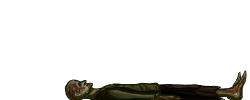
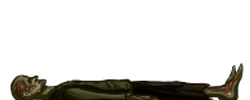
Fixed zombie image size, added the ability to choose between difficulties when first launched, added indication of taking damage to enemies, added additional key to go through scripts (rmb)

Changed region(s): [[0.028, 0.63, 1.0, 1.0]]

diff --git a/scripts.py b/scripts.py
@@ -52,10 +52,10 @@ def script_main_hall(scene: Scene, wesker: Wesker, screen: pygame.Surface,
     floor_rect = pygame.Rect(0, ACTUAL_HEIGHT, WIDTH, FLOOR_HEIGHT)
 
     enter_img = pygame.transform.scale(
-            pygame.image.load(f'images/hud_img/other/enter.png').convert_alpha(),
-            (50, 40),
+            pygame.image.load(f'images/hud_img/other/rmb_or_enter.png').convert_alpha(),
+            (104, 40),
         )
-    enter_rect = pygame.Rect(WIDTH - 60, ACTUAL_HEIGHT + 15, 50, 40)
+    enter_rect = pygame.Rect(WIDTH - 114, ACTUAL_HEIGHT + 15, 104, 40)
 
     wesker.change_x_velocity(0)
     wesker.change_y_velocity(0)
@@ -83,7 +83,8 @@ def script_main_hall(scene: Scene, wesker: Wesker, screen: pygame.Surface,
         for event in pygame.event.get():
             if event.type == pygame.QUIT:
                 return 0
-            elif (event.type == pygame.KEYDOWN) and (event.key == pygame.K_RETURN):
+            elif ((event.type == pygame.KEYDOWN) and (event.key == pygame.K_RETURN)) or \
+                    ((event.type == pygame.MOUSEBUTTONDOWN) and (event.button == 3)):
                 if next_line < len(lines) - 1:
                     next_line += 1
                     line_surface = font.render(lines[next_line], 1, line_color)
@@ -177,10 +178,10 @@ def script_east_wing_stairway(scene: Scene, wesker: Wesker, screen: pygame.Surfa
     floor_rect = pygame.Rect(0, ACTUAL_HEIGHT, WIDTH, FLOOR_HEIGHT)
 
     enter_img = pygame.transform.scale(
-        pygame.image.load(f'images/hud_img/other/enter.png').convert_alpha(),
-        (50, 40),
+        pygame.image.load(f'images/hud_img/other/rmb_or_enter.png').convert_alpha(),
+        (104, 40),
     )
-    enter_rect = pygame.Rect(WIDTH - 60, ACTUAL_HEIGHT + 15, 50, 40)
+    enter_rect = pygame.Rect(WIDTH - 114, ACTUAL_HEIGHT + 15, 104, 40)
 
     wesker.change_x_velocity(0)
     wesker.change_y_velocity(0)
@@ -193,7 +194,8 @@ def script_east_wing_stairway(scene: Scene, wesker: Wesker, screen: pygame.Surfa
         for event in pygame.event.get():
             if event.type == pygame.QUIT:
                 return 0
-            elif (event.type == pygame.KEYDOWN) and (event.key == pygame.K_RETURN):
+            elif ((event.type == pygame.KEYDOWN) and (event.key == pygame.K_RETURN)) or \
+                    ((event.type == pygame.MOUSEBUTTONDOWN) and (event.button == 3)):
                 if next_line < len(lines) - 1:
                     next_line += 1
                     line_surface = font.render(lines[next_line], 1, line_color)
@@ -242,10 +244,10 @@ def script_dark_corridor(scene: Scene, wesker: Wesker, screen: pygame.Surface, c
     floor_rect = pygame.Rect(0, ACTUAL_HEIGHT, WIDTH, FLOOR_HEIGHT)
 
     enter_img = pygame.transform.scale(
-        pygame.image.load(f'images/hud_img/other/enter.png').convert_alpha(),
-        (50, 40),
+        pygame.image.load(f'images/hud_img/other/rmb_or_enter.png').convert_alpha(),
+        (104, 40),
     )
-    enter_rect = pygame.Rect(WIDTH - 60, ACTUAL_HEIGHT + 15, 50, 40)
+    enter_rect = pygame.Rect(WIDTH - 114, ACTUAL_HEIGHT + 15, 104, 40)
 
     wesker.change_x_velocity(0)
     wesker.change_y_velocity(0)
@@ -257,7 +259,8 @@ def script_dark_corridor(scene: Scene, wesker: Wesker, screen: pygame.Surface, c
         for event in pygame.event.get():
             if event.type == pygame.QUIT:
                 return 0
-            elif (event.type == pygame.KEYDOWN) and (event.key == pygame.K_RETURN):
+            elif ((event.type == pygame.KEYDOWN) and (event.key == pygame.K_RETURN)) or \
+                    ((event.type == pygame.MOUSEBUTTONDOWN) and (event.button == 3)):
                 if next_line < len(lines) - 1:
                     next_line += 1
                     line_surface = font.render(lines[next_line], 1, line_color)
@@ -304,10 +307,10 @@ def script_garden_shed(scene: Scene, wesker: Wesker, screen: pygame.Surface, clo
     floor_rect = pygame.Rect(0, ACTUAL_HEIGHT, WIDTH, FLOOR_HEIGHT)
 
     enter_img = pygame.transform.scale(
-        pygame.image.load(f'images/hud_img/other/enter.png').convert_alpha(),
-        (50, 40),
+        pygame.image.load(f'images/hud_img/other/rmb_or_enter.png').convert_alpha(),
+        (104, 40),
     )
-    enter_rect = pygame.Rect(WIDTH - 60, ACTUAL_HEIGHT + 15, 50, 40)
+    enter_rect = pygame.Rect(WIDTH - 114, ACTUAL_HEIGHT + 15, 104, 40)
 
     wesker.change_x_velocity(0)
     wesker.change_y_velocity(0)
@@ -319,7 +322,8 @@ def script_garden_shed(scene: Scene, wesker: Wesker, screen: pygame.Surface, clo
         for event in pygame.event.get():
             if event.type == pygame.QUIT:
                 return 0
-            elif (event.type == pygame.KEYDOWN) and (event.key == pygame.K_RETURN):
+            elif ((event.type == pygame.KEYDOWN) and (event.key == pygame.K_RETURN)) or \
+                    ((event.type == pygame.MOUSEBUTTONDOWN) and (event.button == 3)):
                 if next_line < len(lines) - 1:
                     next_line += 1
                     line_surface = font.render(lines[next_line], 1, line_color)
@@ -378,10 +382,10 @@ def script_gh_corr(scene: Scene, wesker: Wesker, screen: pygame.Surface, clock: 
     floor_rect = pygame.Rect(0, ACTUAL_HEIGHT, WIDTH, FLOOR_HEIGHT)
 
     enter_img = pygame.transform.scale(
-        pygame.image.load(f'images/hud_img/other/enter.png').convert_alpha(),
-        (50, 40),
+        pygame.image.load(f'images/hud_img/other/rmb_or_enter.png').convert_alpha(),
+        (104, 40),
     )
-    enter_rect = pygame.Rect(WIDTH - 60, ACTUAL_HEIGHT + 15, 50, 40)
+    enter_rect = pygame.Rect(WIDTH - 114, ACTUAL_HEIGHT + 15, 104, 40)
 
     wesker.change_x_velocity(0)
     wesker.change_y_velocity(0)
@@ -400,7 +404,8 @@ def script_gh_corr(scene: Scene, wesker: Wesker, screen: pygame.Surface, clock: 
         for event in pygame.event.get():
             if event.type == pygame.QUIT:
                 return 0
-            elif (event.type == pygame.KEYDOWN) and (event.key == pygame.K_RETURN):
+            elif ((event.type == pygame.KEYDOWN) and (event.key == pygame.K_RETURN)) or \
+                    ((event.type == pygame.MOUSEBUTTONDOWN) and (event.button == 3)):
                 if next_line < len(lines) - 1:
                     next_line += 1
                     line_surface = font.render(lines[next_line], 1, line_color)
@@ -464,10 +469,10 @@ def script_gh_gallery(scene: Scene, wesker: Wesker, screen: pygame.Surface, cloc
     floor_rect = pygame.Rect(0, ACTUAL_HEIGHT, WIDTH, FLOOR_HEIGHT)
 
     enter_img = pygame.transform.scale(
-        pygame.image.load(f'images/hud_img/other/enter.png').convert_alpha(),
-        (50, 40),
+        pygame.image.load(f'images/hud_img/other/rmb_or_enter.png').convert_alpha(),
+        (104, 40),
     )
-    enter_rect = pygame.Rect(WIDTH - 60, ACTUAL_HEIGHT + 15, 50, 40)
+    enter_rect = pygame.Rect(WIDTH - 114, ACTUAL_HEIGHT + 15, 104, 40)
 
     wesker.change_x_velocity(0)
     wesker.change_y_velocity(0)
@@ -479,7 +484,8 @@ def script_gh_gallery(scene: Scene, wesker: Wesker, screen: pygame.Surface, cloc
         for event in pygame.event.get():
             if event.type == pygame.QUIT:
                 return 0
-            elif (event.type == pygame.KEYDOWN) and (event.key == pygame.K_RETURN):
+            elif ((event.type == pygame.KEYDOWN) and (event.key == pygame.K_RETURN)) or \
+                    ((event.type == pygame.MOUSEBUTTONDOWN) and (event.button == 3)):
                 if next_line < len(lines) - 1:
                     next_line += 1
                     line_surface = font.render(lines[next_line], 1, line_color)
@@ -525,10 +531,10 @@ def script_generator_room(scene: Scene, wesker: Wesker, screen: pygame.Surface, 
     floor_rect = pygame.Rect(0, ACTUAL_HEIGHT, WIDTH, FLOOR_HEIGHT)
 
     enter_img = pygame.transform.scale(
-        pygame.image.load(f'images/hud_img/other/enter.png').convert_alpha(),
-        (50, 40),
+        pygame.image.load(f'images/hud_img/other/rmb_or_enter.png').convert_alpha(),
+        (104, 40),
     )
-    enter_rect = pygame.Rect(WIDTH - 60, ACTUAL_HEIGHT + 15, 50, 40)
+    enter_rect = pygame.Rect(WIDTH - 114, ACTUAL_HEIGHT + 15, 104, 40)
 
     wesker.change_x_velocity(0)
     wesker.change_y_velocity(0)
@@ -547,7 +553,8 @@ def script_generator_room(scene: Scene, wesker: Wesker, screen: pygame.Surface, 
         for event in pygame.event.get():
             if event.type == pygame.QUIT:
                 return 0
-            elif (event.type == pygame.KEYDOWN) and (event.key == pygame.K_RETURN):
+            elif ((event.type == pygame.KEYDOWN) and (event.key == pygame.K_RETURN)) or \
+                    ((event.type == pygame.MOUSEBUTTONDOWN) and (event.button == 3)):
                 if next_line < len(lines) - 1:
                     next_line += 1
                     line_surface = font.render(lines[next_line], 1, line_color)
@@ -626,10 +633,10 @@ def script_enrico_room(scene: Scene, wesker: Wesker, screen: pygame.Surface,
     floor_rect = pygame.Rect(0, ACTUAL_HEIGHT, WIDTH, FLOOR_HEIGHT)
 
     enter_img = pygame.transform.scale(
-        pygame.image.load(f'images/hud_img/other/enter.png').convert_alpha(),
-        (50, 40),
+        pygame.image.load(f'images/hud_img/other/rmb_or_enter.png').convert_alpha(),
+        (104, 40),
     )
-    enter_rect = pygame.Rect(WIDTH - 60, ACTUAL_HEIGHT + 15, 50, 40)
+    enter_rect = pygame.Rect(WIDTH - 114, ACTUAL_HEIGHT + 15, 104, 40)
 
     wesker.change_x_velocity(0)
     wesker.change_y_velocity(0)
@@ -650,7 +657,8 @@ def script_enrico_room(scene: Scene, wesker: Wesker, screen: pygame.Surface,
         for event in pygame.event.get():
             if event.type == pygame.QUIT:
                 return 0
-            elif (event.type == pygame.KEYDOWN) and (event.key == pygame.K_RETURN):
+            elif ((event.type == pygame.KEYDOWN) and (event.key == pygame.K_RETURN)) or \
+                    ((event.type == pygame.MOUSEBUTTONDOWN) and (event.button == 3)):
                 if next_line < len(lines) - 1:
                     next_line += 1
                     line_surface = font.render(lines[next_line], 1, line_color)
@@ -726,10 +734,10 @@ def script_altar(scene: Scene, wesker: Wesker, screen: pygame.Surface, clock: py
     floor_rect = pygame.Rect(0, ACTUAL_HEIGHT, WIDTH, FLOOR_HEIGHT)
 
     enter_img = pygame.transform.scale(
-        pygame.image.load(f'images/hud_img/other/enter.png').convert_alpha(),
-        (50, 40),
+        pygame.image.load(f'images/hud_img/other/rmb_or_enter.png').convert_alpha(),
+        (104, 40),
     )
-    enter_rect = pygame.Rect(WIDTH - 60, ACTUAL_HEIGHT + 15, 50, 40)
+    enter_rect = pygame.Rect(WIDTH - 114, ACTUAL_HEIGHT + 15, 104, 40)
 
     wesker.change_x_velocity(0)
     wesker.change_y_velocity(0)
@@ -754,7 +762,8 @@ def script_altar(scene: Scene, wesker: Wesker, screen: pygame.Surface, clock: py
         for event in pygame.event.get():
             if event.type == pygame.QUIT:
                 return 0
-            elif (event.type == pygame.KEYDOWN) and (event.key == pygame.K_RETURN):
+            elif ((event.type == pygame.KEYDOWN) and (event.key == pygame.K_RETURN)) or \
+                    ((event.type == pygame.MOUSEBUTTONDOWN) and (event.button == 3)):
                 if next_line < len(lines) - 1:
                     next_line += 1
                     line_surface = font.render(lines[next_line], 1, line_color)
@@ -813,10 +822,10 @@ def script_altar_after_fight(scene: Scene, wesker: Wesker, screen: pygame.Surfac
     floor_rect = pygame.Rect(0, ACTUAL_HEIGHT, WIDTH, FLOOR_HEIGHT)
 
     enter_img = pygame.transform.scale(
-        pygame.image.load(f'images/hud_img/other/enter.png').convert_alpha(),
-        (50, 40),
+        pygame.image.load(f'images/hud_img/other/rmb_or_enter.png').convert_alpha(),
+        (104, 40),
     )
-    enter_rect = pygame.Rect(WIDTH - 60, ACTUAL_HEIGHT + 15, 50, 40)
+    enter_rect = pygame.Rect(WIDTH - 114, ACTUAL_HEIGHT + 15, 104, 40)
 
     wesker.change_x_velocity(0)
     wesker.change_y_velocity(0)
@@ -834,7 +843,8 @@ def script_altar_after_fight(scene: Scene, wesker: Wesker, screen: pygame.Surfac
         for event in pygame.event.get():
             if event.type == pygame.QUIT:
                 return 0
-            elif (event.type == pygame.KEYDOWN) and (event.key == pygame.K_RETURN):
+            elif ((event.type == pygame.KEYDOWN) and (event.key == pygame.K_RETURN)) or \
+                    ((event.type == pygame.MOUSEBUTTONDOWN) and (event.button == 3)):
                 if next_line < len(lines) - 1:
                     next_line += 1
                     line_surface = font.render(lines[next_line], 1, line_color)
@@ -927,10 +937,10 @@ def script_main_lab(scene: Scene, wesker: Wesker, screen: pygame.Surface,
     floor_rect = pygame.Rect(0, ACTUAL_HEIGHT, WIDTH, FLOOR_HEIGHT)
 
     enter_img = pygame.transform.scale(
-        pygame.image.load(f'images/hud_img/other/enter.png').convert_alpha(),
-        (50, 40),
+        pygame.image.load(f'images/hud_img/other/rmb_or_enter.png').convert_alpha(),
+        (104, 40),
     )
-    enter_rect = pygame.Rect(WIDTH - 60, ACTUAL_HEIGHT + 15, 50, 40)
+    enter_rect = pygame.Rect(WIDTH - 114, ACTUAL_HEIGHT + 15, 104, 40)
 
     wesker.change_x_velocity(0)
     wesker.change_y_velocity(0)
@@ -974,7 +984,8 @@ def script_main_lab(scene: Scene, wesker: Wesker, screen: pygame.Surface,
         for event in pygame.event.get():
             if event.type == pygame.QUIT:
                 return 0
-            elif (event.type == pygame.KEYDOWN) and (event.key == pygame.K_RETURN):
+            elif ((event.type == pygame.KEYDOWN) and (event.key == pygame.K_RETURN)) or \
+                    ((event.type == pygame.MOUSEBUTTONDOWN) and (event.button == 3)):
                 if next_line < len(lines) - 1:
                     next_line += 1
                     line_surface = font.render(lines[next_line], 1, line_color)
@@ -1096,7 +1107,8 @@ def script_end_screen(screen: pygame.Surface, final_time: int, seven_minutes: bo
         for event in pygame.event.get():
             if event.type == pygame.QUIT:
                 return 0
-            elif (event.type == pygame.KEYDOWN) and (event.key == pygame.K_RETURN):
+            elif ((event.type == pygame.KEYDOWN) and (event.key == pygame.K_RETURN)) or \
+                    ((event.type == pygame.MOUSEBUTTONDOWN) and (event.button == 3)):
                 return 0
 
         screen.blit(end_screen_img, end_screen_rect)

diff --git a/game.py b/game.py
@@ -108,24 +108,18 @@ class Game:
                 self.__menu.change_volume_pointer_state(True)
                 if self.__menu.check_play_button_pressed():
                     if self.__difficulty is None:
-                        self.__difficulty = 1
+                        self.__difficulty = self.__menu.get_preset_difficulty()
                         self.__menu.set_difficulty(self.__difficulty)
                         self.__prepare_scenes()
                     self.__in_menu = False
                     self.__in_menu_time = pygame.time.get_ticks() - self.__menu.get_start_time_in_menu()
                 if self.__difficulty is None:
                     if self.__menu.check_dif_hard_button_pressed():
-                        self.__difficulty = 2
-                        self.__menu.set_difficulty(self.__difficulty)
-                        self.__prepare_scenes()
+                        self.__menu.set_difficulty_circle(2)
                     if self.__menu.check_dif_normal_button_pressed():
-                        self.__difficulty = 1
-                        self.__menu.set_difficulty(self.__difficulty)
-                        self.__prepare_scenes()
+                        self.__menu.set_difficulty_circle(1)
                     if self.__menu.check_dif_easy_button_pressed():
-                        self.__difficulty = 0
-                        self.__menu.set_difficulty(self.__difficulty)
-                        self.__prepare_scenes()
+                        self.__menu.set_difficulty_circle(0)
             elif (event.type == pygame.MOUSEBUTTONUP) and (event.button == 1):
                 self.__menu.change_volume_pointer_state(False)
 
@@ -893,6 +887,10 @@ class Menu:
         self.__easy_button_rect.x = self.__dif_rect.x
         self.__easy_button_rect.y = self.__normal_button_rect.y + 30
 
+        self.__preset_difficulty = 1
+        self.__difficulty_circle_y = self.__normal_button_rect.y + 10
+        self.__difficulty_circle_x = self.__normal_button_rect.x - 15
+
         self.__dif_set_surface: pygame.Surface = self.__font_controls.render('Normal',
                                                                              1, self.__button_color_idle)
         self.__dif_set_rect: pygame.Rect = pygame.Rect(1, 1, 1, 1)
@@ -1060,6 +1058,18 @@ class Menu:
     def check_dif_easy_button_pressed(self):
         return self.__easy_button_state
 
+    def get_preset_difficulty(self):
+        return self.__preset_difficulty
+
+    def set_difficulty_circle(self, difficulty: int):
+        self.__preset_difficulty = difficulty
+        if difficulty == 0:
+            self.__difficulty_circle_y = self.__easy_button_rect.y + 10
+        elif difficulty == 1:
+            self.__difficulty_circle_y = self.__normal_button_rect.y + 10
+        elif difficulty == 2:
+            self.__difficulty_circle_y = self.__hard_button_rect.y + 10
+
     def set_difficulty(self, difficulty: int):
         self.__difficulty = difficulty
 
@@ -1123,6 +1133,8 @@ class Menu:
             screen.blit(self.__hard_button_surface, self.__hard_button_rect)
             screen.blit(self.__normal_button_surface, self.__normal_button_rect)
             screen.blit(self.__easy_button_surface, self.__easy_button_rect)
+            pygame.draw.circle(screen, self.__pointer_color,
+                               (self.__difficulty_circle_x, self.__difficulty_circle_y), 5)
         else:
             screen.blit(self.__dif_set_surface, self.__dif_set_rect)
 

diff --git a/scenes.py b/scenes.py
@@ -143,6 +143,7 @@ class Enemy:
 
     def __get_damage(self):
         self.__health -= 1
+        self.__last_frame = 2
         if not self.__health > 0:
             self.__alive = False
             self.__rect = pygame.Rect(self.__rect.x, ACTUAL_HEIGHT - 100, 250, 100)
@@ -157,9 +158,8 @@ class Enemy:
     def __check_enemy_movement(self, wesker: Wesker):
         if self.__alive:
             self.__direction = wesker.get_hitbox_rect().x < self.__rect.x
-            self.__last_frame_count += 1
-            if self.__last_frame_count > (FPS // 2):
-                self.__last_frame_count = 0
+            if (pygame.time.get_ticks() - self.__last_frame_count) > 450:
+                self.__last_frame_count = pygame.time.get_ticks()
                 self.__last_frame = not self.__last_frame
             self.__rect.x += self.__velocity * ((-1) ** self.__direction)
 

diff --git a/constants.py b/constants.py
@@ -11,7 +11,7 @@ DEFAULT_AMMO_STORED = 15
 
 # (name, health, dmg, velocity, is_poisonous, width, height)
 ENEMY_TYPES = (
-    ('zombie', 5, 25, 2, False, 100, 200),             # 0
+    ('zombie', 5, 25, 2, False, 125, 250),             # 0
     ('cerberus', 3, 20, 5, False, 200, 100),           # 1
     ('adder', 1, 1, 5, True, 100, 20),                 # 2
     ('hunter', 6, 35, 2, False, 250, 250),             # 3
